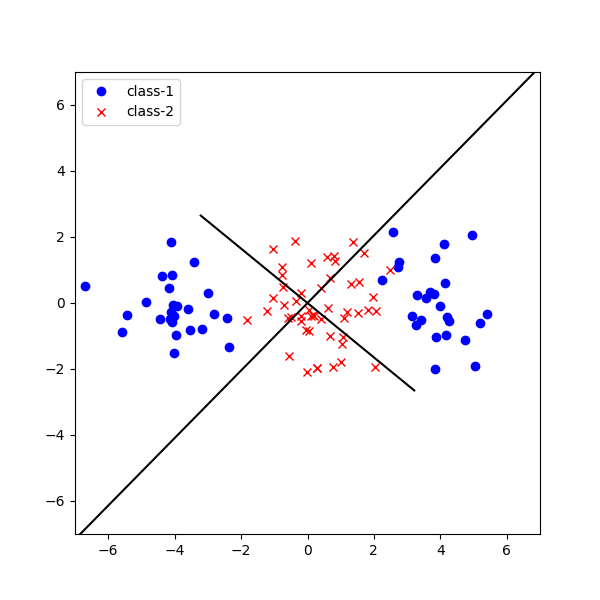
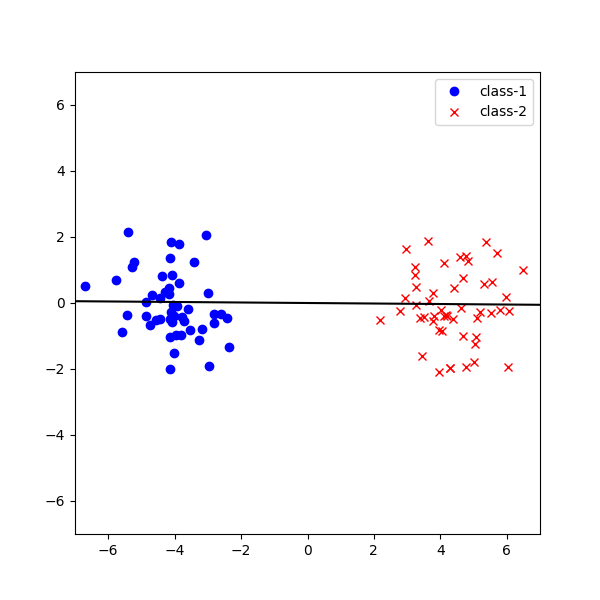
完成したっぽい？

diff --git a/Lecture_11/p48.py b/Lecture_11/p48.py
@@ -44,7 +44,7 @@ def fda(x, y):
         class_index = np.where(y == class_num)
         mean_vec = np.matrix(np.mean(x[class_index], axis=0))
         Sb += len(class_index[0]) * mean_vec.T.dot(mean_vec)
-        Sw += (np.matrix(x[class_index]) - mean_vec).T.dot((np.matrix(x[class_index]) - mean_vec))
+        Sw += (np.matrix(x[class_index[0]]) - mean_vec).T.dot((np.matrix(x[class_index[0]]) - mean_vec))
 
     """
     C = (np.matrix(x)).T.dot((np.matrix(x)))
@@ -52,7 +52,7 @@ def fda(x, y):
     print(Sw + Sb)
     """
     eig_val, eig_vec = scipy.linalg.eig(Sb, Sw)  # 一般固化有値問題を解く
-    return eig_vec
+    return eig_vec[:1, :] / np.linalg.norm(eig_vec[:1, :])
 
 
 def visualize(x, y, T):
@@ -69,7 +69,7 @@ def visualize(x, y, T):
 
 
 sample_size = 100
-# x, y = generate_data(sample_size=sample_size, pattern='two_cluster')
-x, y = generate_data(sample_size=sample_size, pattern='three_cluster')
+x, y = generate_data(sample_size=sample_size, pattern='two_cluster')
+# x, y = generate_data(sample_size=sample_size, pattern='three_cluster')
 T = fda(x, y)
 visualize(x, y, T)
